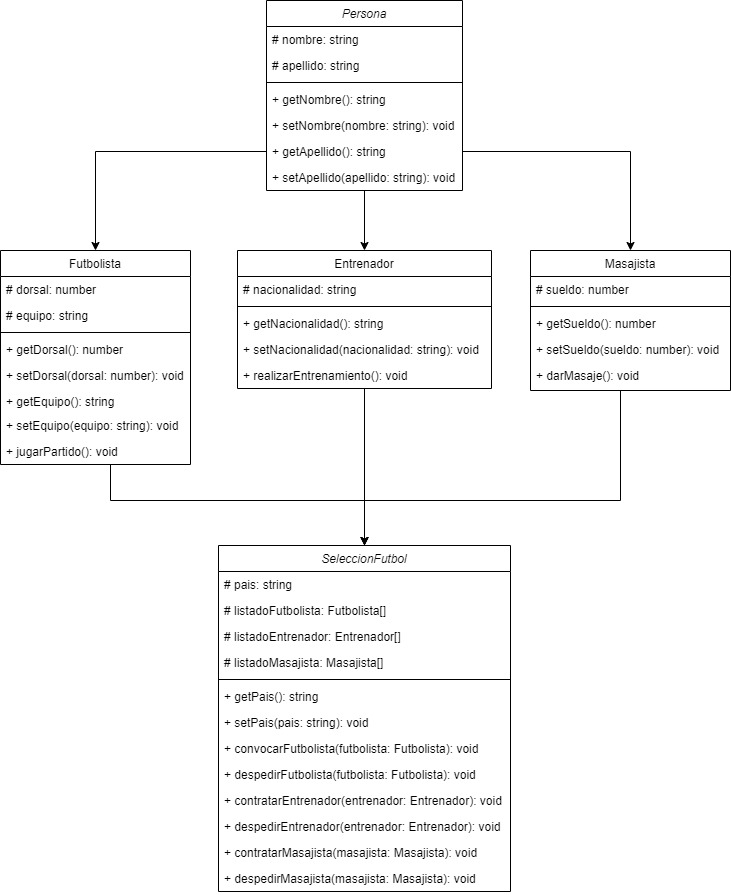
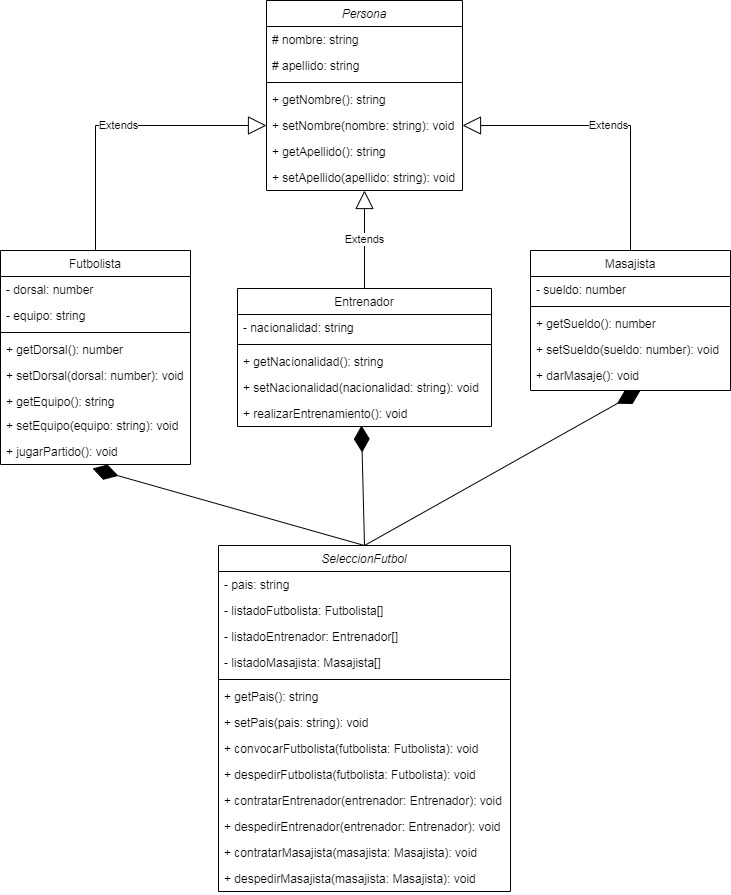
07/10/22

diff --git a/ejercicio03-10-seleccionFutbol/seleccionFutbol.js b/ejercicio03-10-seleccionFutbol/seleccionFutbol.js
@@ -19,39 +19,57 @@ var SeleccionFutbol = /** @class */ (function () {
         console.log("El futbolista ".concat(futbolista.getNombre(), " ").concat(futbolista.getApellido(), " fue convocado"));
     };
     SeleccionFutbol.prototype.despedirFutbolista = function (futbolista) {
+        var encontrado = false;
         for (var i = 0; i < this.listadoFutbolista.length; i++) {
             if ((futbolista.getNombre() === this.listadoFutbolista[i].getNombre()) && (futbolista.getApellido() === this.listadoFutbolista[i].getApellido())) {
                 this.listadoFutbolista.splice(i, 1);
-                return console.log("El futbolista ".concat(futbolista.getNombre(), " ").concat(futbolista.getApellido(), " fue despedido"));
+                encontrado = true;
             }
         }
-        return console.log("No se encontr\u00F3 al futbolista ".concat(futbolista.getNombre(), " ").concat(futbolista.getApellido()));
+        if (encontrado === true) {
+            console.log("El futbolista ".concat(futbolista.getNombre(), " ").concat(futbolista.getApellido(), " fue despedido"));
+        }
+        else {
+            console.log("No se encontr\u00F3 al futbolista ".concat(futbolista.getNombre(), " ").concat(futbolista.getApellido()));
+        }
     };
     SeleccionFutbol.prototype.contratarEntrenador = function (entrenador) {
         this.listadoEntrenador.push(entrenador);
         console.log("El entrenador ".concat(entrenador.getNombre(), " ").concat(entrenador.getApellido(), " fue contratado"));
     };
     SeleccionFutbol.prototype.despedirEntrenador = function (entrenador) {
+        var encontrado = false;
         for (var i = 0; i < this.listadoEntrenador.length; i++) {
             if ((entrenador.getNombre() === this.listadoEntrenador[i].getNombre()) && (entrenador.getApellido() === this.listadoEntrenador[i].getApellido())) {
                 this.listadoEntrenador.splice(i, 1);
-                return console.log("El entrenador ".concat(entrenador.getNombre(), " ").concat(entrenador.getApellido(), " fue despedido"));
+                encontrado = true;
             }
         }
-        return console.log("No se encontr\u00F3 al entrenador ".concat(entrenador.getNombre(), " ").concat(entrenador.getApellido()));
+        if (encontrado === true) {
+            console.log("El entrenador ".concat(entrenador.getNombre(), " ").concat(entrenador.getApellido(), " fue despedido"));
+        }
+        else {
+            console.log("No se encontr\u00F3 al entrenador ".concat(entrenador.getNombre(), " ").concat(entrenador.getApellido()));
+        }
     };
     SeleccionFutbol.prototype.contratarMasajista = function (masajista) {
         this.listadoMasajista.push(masajista);
         console.log("El masajista ".concat(masajista.getNombre(), " ").concat(masajista.getApellido(), " fue contratado"));
     };
     SeleccionFutbol.prototype.despedirMasajista = function (masajista) {
+        var encontrado = false;
         for (var i = 0; i < this.listadoMasajista.length; i++) {
             if ((masajista.getNombre() === this.listadoMasajista[i].getNombre()) && (masajista.getApellido() === this.listadoMasajista[i].getApellido())) {
                 this.listadoMasajista.splice(i, 1);
-                return console.log("El masajista ".concat(masajista.getNombre(), " ").concat(masajista.getApellido(), " fue despedido"));
+                encontrado = true;
             }
         }
-        return console.log("No se encontr\u00F3 al masajista ".concat(masajista.getNombre(), " ").concat(masajista.getApellido()));
+        if (encontrado === true) {
+            console.log("El masajista ".concat(masajista.getNombre(), " ").concat(masajista.getApellido(), " fue despedido"));
+        }
+        else {
+            console.log("No se encontr\u00F3 al masajista ".concat(masajista.getNombre(), " ").concat(masajista.getApellido()));
+        }
     };
     return SeleccionFutbol;
 }());

diff --git a/ejercicio03-10-seleccionFutbol/seleccionFutbol.ts b/ejercicio03-10-seleccionFutbol/seleccionFutbol.ts
@@ -3,10 +3,10 @@ import { Entrenador } from "./entrenador";
 import { Masajista } from "./masajista";
 
 export class SeleccionFutbol {
-  protected pais: string;
-  protected listadoFutbolista: Futbolista[];
-  protected listadoEntrenador: Entrenador[];
-  protected listadoMasajista: Masajista[];
+  private pais: string;
+  private listadoFutbolista: Futbolista[];
+  private listadoEntrenador: Entrenador[];
+  private listadoMasajista: Masajista[];
   
   constructor(pPais: string, pFutbolista: Futbolista[], pEntrenador: Entrenador[], pMasajista: Masajista[]) {
     this.pais = pPais;
@@ -29,13 +29,18 @@ export class SeleccionFutbol {
   }
 
   public despedirFutbolista(futbolista: Futbolista): void {
+    let encontrado: boolean = false;
     for (let i: number = 0; i < this.listadoFutbolista.length; i++) {
       if ((futbolista.getNombre() === this.listadoFutbolista[i].getNombre()) && (futbolista.getApellido() === this.listadoFutbolista[i].getApellido())) {
         this.listadoFutbolista.splice(i, 1);
-        return console.log(`El futbolista ${futbolista.getNombre()} ${futbolista.getApellido()} fue despedido`);
+        encontrado = true;
       }
     }
-    return console.log(`No se encontró al futbolista ${futbolista.getNombre()} ${futbolista.getApellido()}`);
+    if (encontrado === true) {
+      console.log(`El futbolista ${futbolista.getNombre()} ${futbolista.getApellido()} fue despedido`);
+    } else {
+      console.log(`No se encontró al futbolista ${futbolista.getNombre()} ${futbolista.getApellido()}`);
+    }
   }
 
   public contratarEntrenador(entrenador: Entrenador): void {
@@ -44,13 +49,18 @@ export class SeleccionFutbol {
   }
   
   public despedirEntrenador(entrenador: Entrenador): void {
+    let encontrado: boolean = false;
     for (let i: number = 0; i < this.listadoEntrenador.length; i++) {
       if ((entrenador.getNombre() === this.listadoEntrenador[i].getNombre()) && (entrenador.getApellido() === this.listadoEntrenador[i].getApellido())) {
         this.listadoEntrenador.splice(i, 1);
-        return console.log(`El entrenador ${entrenador.getNombre()} ${entrenador.getApellido()} fue despedido`);
+        encontrado = true;
       }
     }
-    return console.log(`No se encontró al entrenador ${entrenador.getNombre()} ${entrenador.getApellido()}`);
+    if (encontrado === true) {
+      console.log(`El entrenador ${entrenador.getNombre()} ${entrenador.getApellido()} fue despedido`);
+    } else {
+      console.log(`No se encontró al entrenador ${entrenador.getNombre()} ${entrenador.getApellido()}`);
+    }
   }
   
   public contratarMasajista(masajista: Masajista): void {
@@ -59,12 +69,17 @@ export class SeleccionFutbol {
   }
   
   public despedirMasajista(masajista: Masajista): void {
+    let encontrado: boolean = false;
     for (let i: number = 0; i < this.listadoMasajista.length; i++) {
       if ((masajista.getNombre() === this.listadoMasajista[i].getNombre()) && (masajista.getApellido() === this.listadoMasajista[i].getApellido())) {
         this.listadoMasajista.splice(i, 1);
-        return console.log(`El masajista ${masajista.getNombre()} ${masajista.getApellido()} fue despedido`);
+        encontrado = true;
       }
     }
-    return console.log(`No se encontró al masajista ${masajista.getNombre()} ${masajista.getApellido()}`);
+    if (encontrado === true) {
+      console.log(`El masajista ${masajista.getNombre()} ${masajista.getApellido()} fue despedido`);
+    } else {
+      console.log(`No se encontró al masajista ${masajista.getNombre()} ${masajista.getApellido()}`);
+    }
   }
 }

diff --git a/ejercicio03-10-seleccionFutbol/futbolista.ts b/ejercicio03-10-seleccionFutbol/futbolista.ts
@@ -1,8 +1,8 @@
 import { Persona } from "./persona";
 
 export class Futbolista extends Persona {
-  protected dorsal: number;
-  protected equipo: string;
+  private dorsal: number;
+  private equipo: string;
   
   constructor(pNombre: string, pApellido: string, pDorsal: number, pEquipo: string) {
     super(pNombre, pApellido);
@@ -27,6 +27,6 @@ export class Futbolista extends Persona {
   }
 
   public jugarPartido(): void {
-    return console.log(`El futbolista ha jugado un partido`);
+    console.log(`El futbolista ha jugado un partido`);
   }
 }

diff --git a/ejercicio03-10-seleccionFutbol/entrenador.ts b/ejercicio03-10-seleccionFutbol/entrenador.ts
@@ -1,7 +1,7 @@
 import { Persona } from "./persona";
 
 export class Entrenador extends Persona {
-  protected nacionalidad: string;
+  private nacionalidad: string;
 
   constructor(pNombre: string, pApellido: string, pNacionalidad: string) {
     super(pNombre, pApellido);
@@ -17,7 +17,7 @@ export class Entrenador extends Persona {
   }
 
   public realizarEntrenamiento(): void {
-    return console.log(`El entrenador ha realizado un entrenamiento`); 
+    console.log(`El entrenador ha realizado un entrenamiento`); 
   }
 
 }

diff --git a/ejercicio03-10-seleccionFutbol/masajista.ts b/ejercicio03-10-seleccionFutbol/masajista.ts
@@ -1,7 +1,7 @@
 import { Persona } from "./persona";
 
 export class Masajista extends Persona {
-  protected sueldo: number;
+  private sueldo: number;
   
   constructor(pNombre: string, pApellido: string, pSueldo: number) {
     super(pNombre, pApellido);
@@ -17,7 +17,7 @@ export class Masajista extends Persona {
   }
 
   public darMasaje(): void {
-    return console.log(`Usted ha recibido un masaje`);
+    console.log(`Usted ha recibido un masaje`);
   }
 
 }

diff --git a/ejercicio03-10-seleccionFutbol/main.ts b/ejercicio03-10-seleccionFutbol/main.ts
@@ -44,7 +44,7 @@ console.log(futbolista2.getEquipo());
 futbolista1.jugarPartido();
 
  /* Entrenador */
- let entrenador1: Entrenador = new Entrenador("Pep", "Guardiola", "Español");
+let entrenador1: Entrenador = new Entrenador("Pep", "Guardiola", "Español");
 let entrenador2: Entrenador = new Entrenador("Zinedine", "Zidane", "Francés");
 
 let listadoEntrenador: Entrenador[] = [entrenador1, entrenador2];

diff --git a/ejercicio03-10-seleccionFutbol/entrenador.js b/ejercicio03-10-seleccionFutbol/entrenador.js
@@ -31,7 +31,7 @@ var Entrenador = /** @class */ (function (_super) {
         this.nacionalidad = nacionalidad;
     };
     Entrenador.prototype.realizarEntrenamiento = function () {
-        return console.log("El entrenador ha realizado un entrenamiento");
+        console.log("El entrenador ha realizado un entrenamiento");
     };
     return Entrenador;
 }(persona_1.Persona));

diff --git a/ejercicio03-10-seleccionFutbol/futbolista.js b/ejercicio03-10-seleccionFutbol/futbolista.js
@@ -38,7 +38,7 @@ var Futbolista = /** @class */ (function (_super) {
         this.equipo = equipo;
     };
     Futbolista.prototype.jugarPartido = function () {
-        return console.log("El futbolista ha jugado un partido");
+        console.log("El futbolista ha jugado un partido");
     };
     return Futbolista;
 }(persona_1.Persona));

diff --git a/ejercicio03-10-seleccionFutbol/masajista.js b/ejercicio03-10-seleccionFutbol/masajista.js
@@ -31,7 +31,7 @@ var Masajista = /** @class */ (function (_super) {
         this.sueldo = sueldo;
     };
     Masajista.prototype.darMasaje = function () {
-        return console.log("Usted ha recibido un masaje");
+        console.log("Usted ha recibido un masaje");
     };
     return Masajista;
 }(persona_1.Persona));
